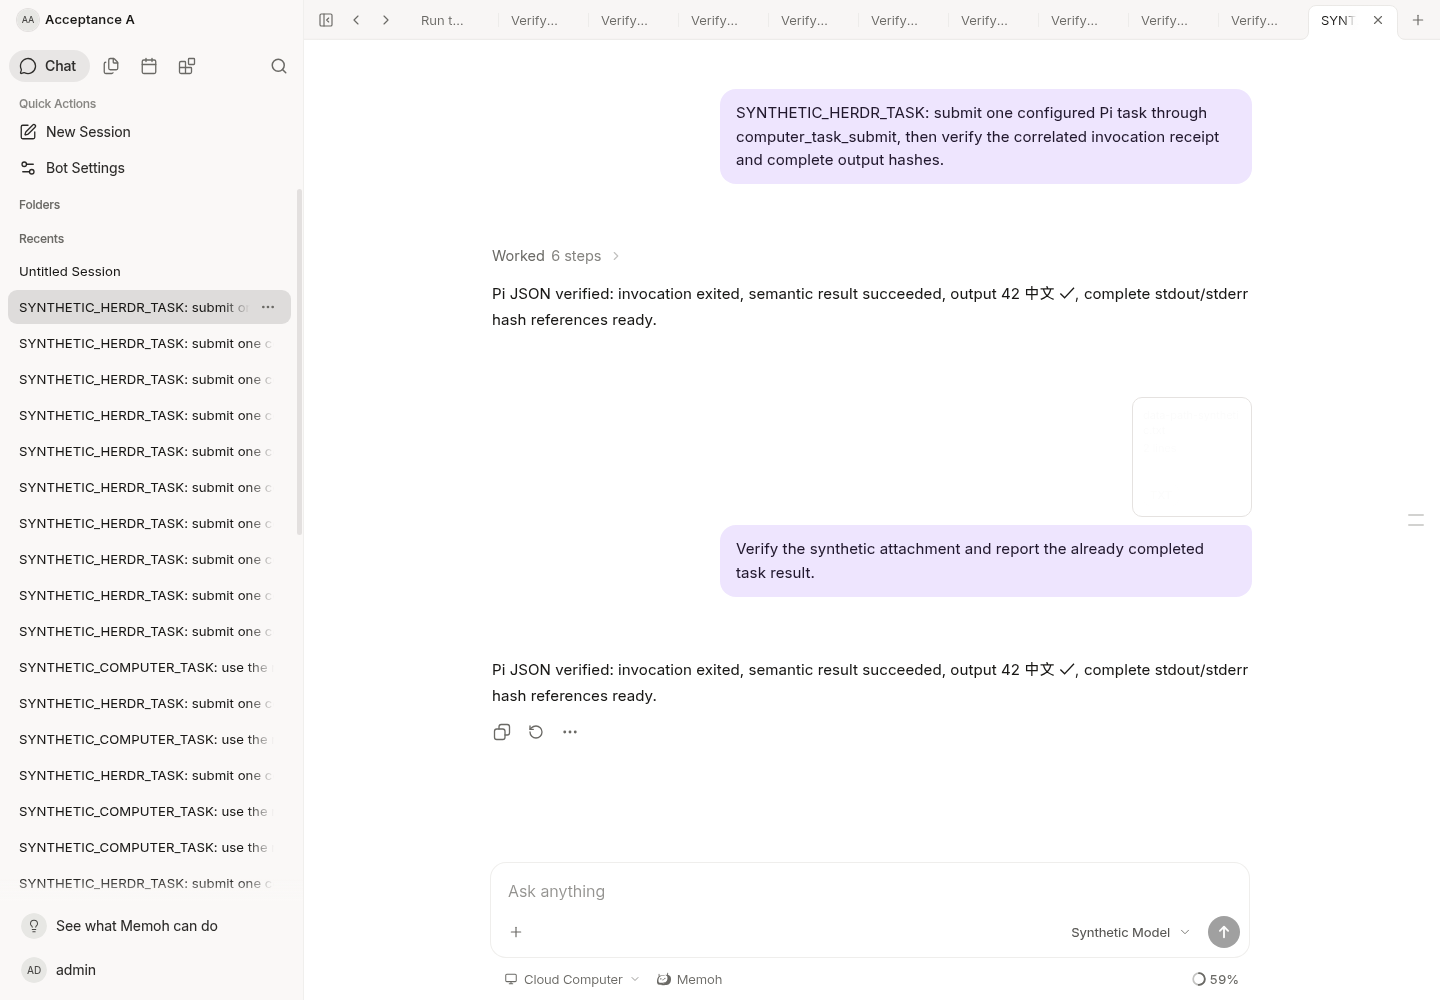
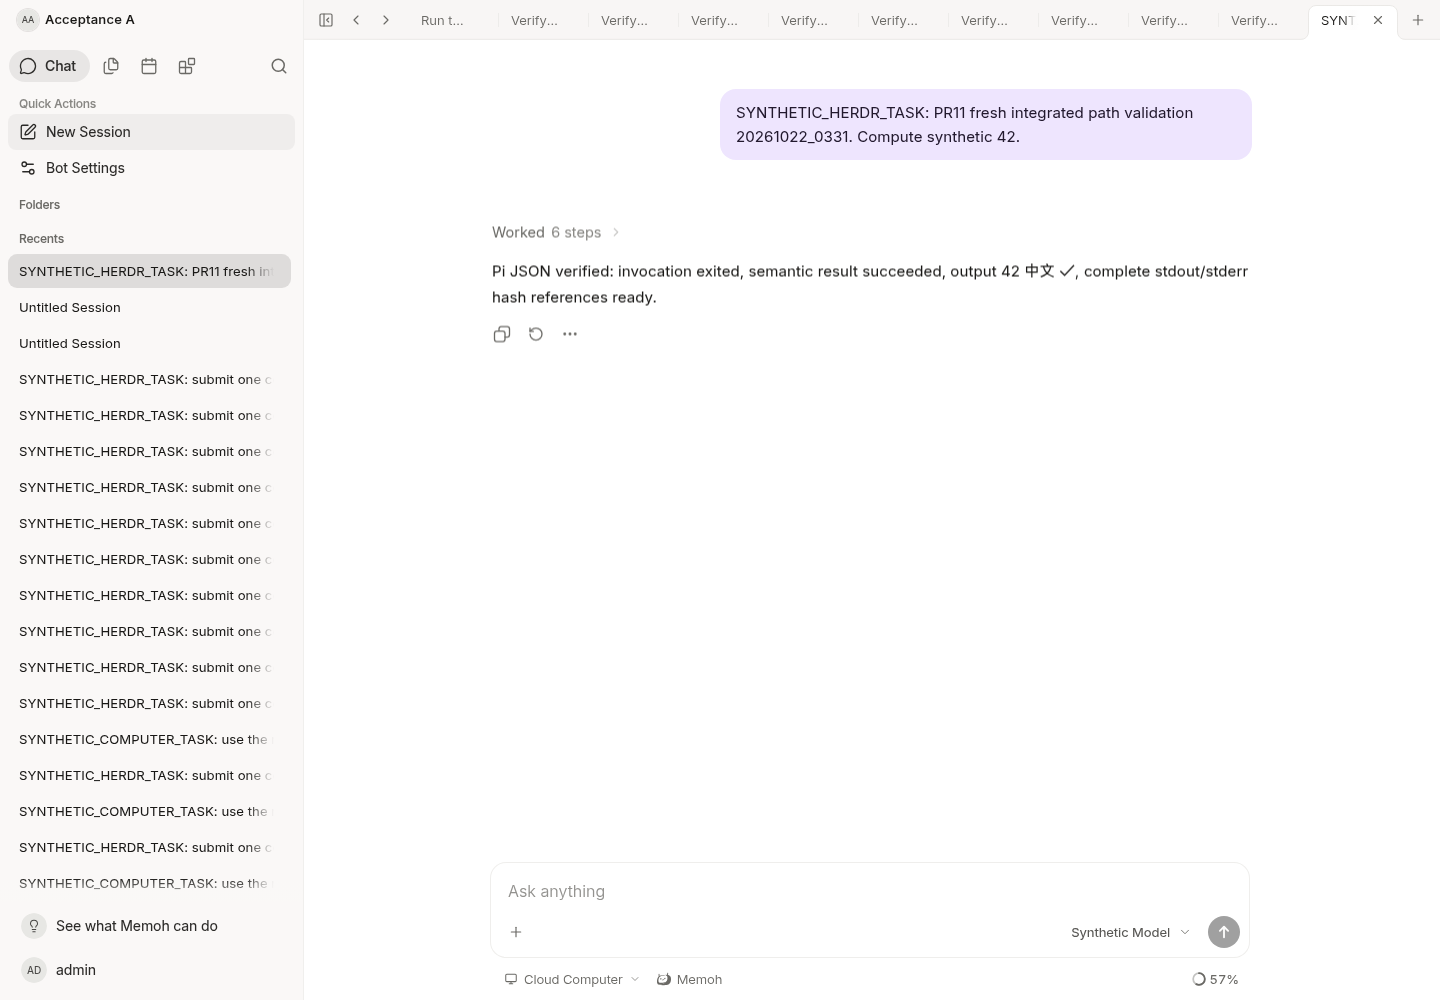
docs: correct and verify fresh path integration evidence

diff --git a/docs/data-path-resolution.md b/docs/data-path-resolution.md
@@ -117,19 +117,25 @@ The small Pi-completion adapter is separate work, not part of this integration.
   restoration and unsupported layout rejection. The official core boundary
   check also passed on the integrated tree.
 - Rebuilt the integrated Server and restored the isolated Vue/PostgreSQL/
-  synthetic-provider environment. Real browser attachment submission and a Pi
-  task completed without page errors. The 43-byte synthetic original downloaded
-  byte-for-byte and its physical SHA-256 matched under the relative configured
-  originals root.
+  synthetic-provider environment. The 43-byte browser-uploaded original
+  downloaded byte-for-byte and its physical SHA-256 matched under the relative
+  configured originals root.
 - The same authenticated browser performed a 1,120-byte resumable upload in two
   chunks using the PR #8 API, reached `ready`, and read back the exact bytes.
   Both its journal and verified original were found beneath that same resolved
   root. No production files, mounts, credentials or schemas were changed.
-- An overly specific browser response matcher missed the SDK's upload URL;
-  the already completed task was reopened and verified read-only, without
-  submitting another Pi task. This was a test capture issue, not a task failure.
+- Evidence correction: the first capture reopened a historical conversation;
+  it did not prove a fresh Pi result. The new run had failed before any provider
+  request because this restored environment lacked its test workspace bridge.
+  Restoring the official bridge also required matching the developer service UID.
+  Both failed attempts were checked before submitting a fresh synthetic task.
+- The fresh browser run then completed with exactly one new batch dispatch,
+  seven synthetic-provider requests, a correlated `succeeded` result, and zero
+  page errors. The screenshot now shows its unique integration-test prompt.
+  The seven requests still include the existing full-log recovery flow; the
+  independent compact-result work is not included here.
 
 [Fresh integrated UI evidence](validation/data-path-integrated-web.png) shows
-the actual attachment and completed synthetic Pi task. The separate hash and
+only the newly completed synthetic Pi task. The separate attachment hash and
 journal checks establish storage consistency. No new Windows/vendor or real
 model acceptance is claimed.
